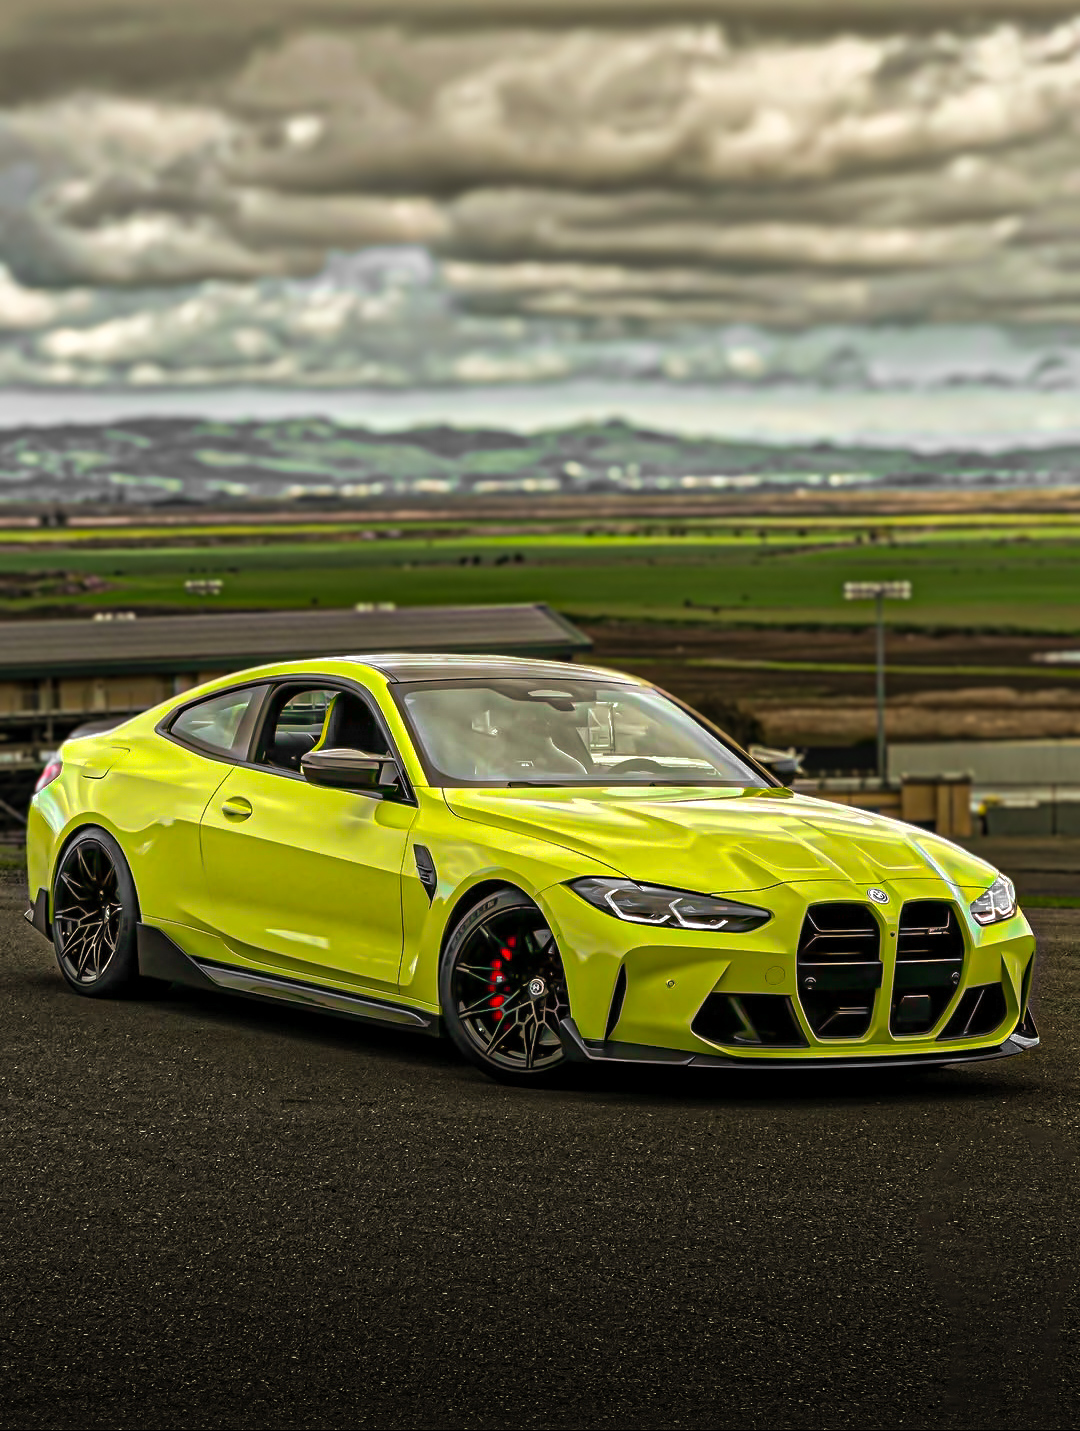
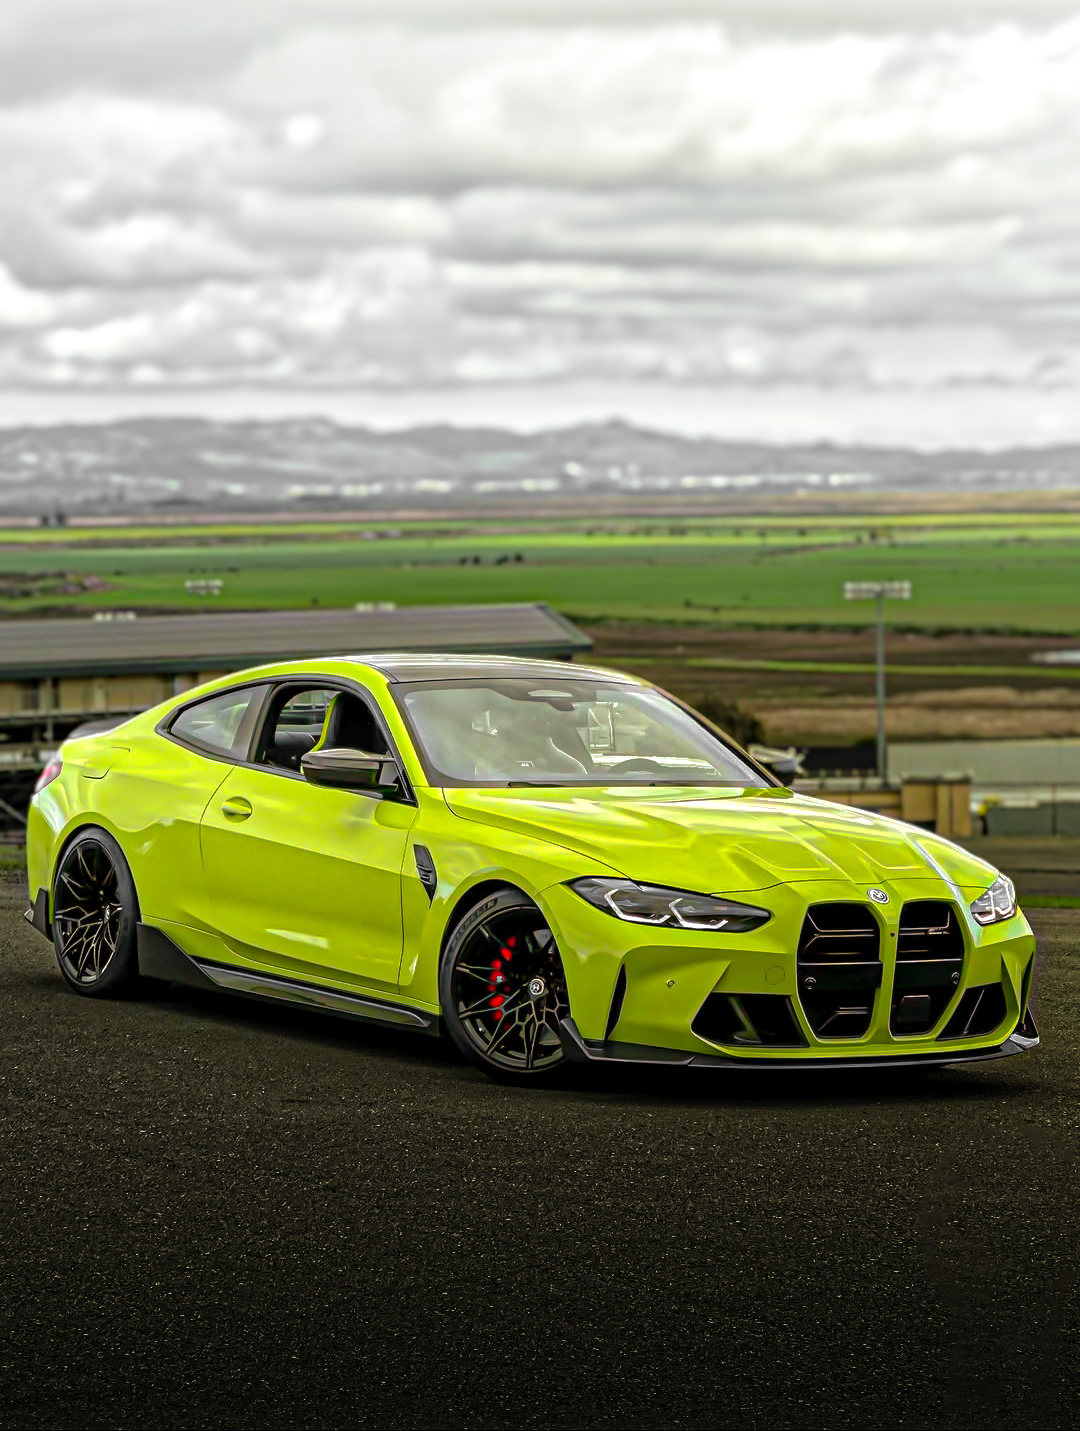
BMW

diff --git a/src/App.js b/src/App.js
@@ -1,7 +1,6 @@
-import { useState } from 'react';
+import React, { useState, useEffect } from 'react';
 import './App.css';
 import { useRepeatableIntersect } from './hooks/useRepeatableIntersect';
-
 const NAV = [
   { id: 'home', label: 'Home' },
   { id: 'experience', label: 'Experience' },
@@ -85,8 +84,8 @@ const PROJECTS = [
      { 
       id: 7, 
       title: 'Nature', 
-     before: 'if.jpg', 
-      after: 'ifcg.jpg' 
+     before: 'fiz.jpg', 
+      after: 'fizcg.jpg' 
      },
       { 
       id: 8, 
@@ -276,8 +275,13 @@ function ProjectsSection() {
     </section>
   );
 }
-function ColorGradeCard({ item, index, active }) {
+function ColorGradeCard({ item, index, active, forceShowAfter }) {
   const [showAfter, setShowAfter] = useState(false);
+
+  // Sync with the "Grade All" button
+  useEffect(() => {
+    setShowAfter(forceShowAfter);
+  }, [forceShowAfter]);
 
   return (
     <article 
@@ -289,7 +293,6 @@ function ColorGradeCard({ item, index, active }) {
         <img 
           src={showAfter ? item.after : item.before} 
           alt={item.title} 
-          // No height="200px" here!
         />
         <div className="button-container">
           <button className="pill pill--solid" style={{ fontSize: '0.8rem', padding: '6px 27px' }}>
@@ -300,30 +303,53 @@ function ColorGradeCard({ item, index, active }) {
         <div className="photo-overlay">
           <div className="overlay-content">
              <h3>{item.title}</h3>
-             <span className="status-tag">
-               {showAfter ? 'Graded' : 'Raw'}
-             </span>
+             <span className="status-tag">{showAfter ? 'Graded' : 'Raw'}</span>
           </div>
         </div>
       </div>
     </article>
   );
 }
+
+// --- MAIN SECTION ---
 function GradingSection() {
+  // Assuming useRepeatableIntersect is defined elsewhere in your project
   const [ref, active] = useRepeatableIntersect(0.15, '0px 0px -8% 0px', true);
+  const [globalShowAfter, setGlobalShowAfter] = useState(false);
+
+  const toggleAll = () => setGlobalShowAfter(!globalShowAfter);
 
   return (
     <section id="grading" className="section" ref={ref}>
       <div className={`section-inner reveal ${active ? 'reveal--in' : ''}`}>
         <p className="eyebrow">Side Skills</p>
         <h2 className="section-title">Color Grading</h2>
-        <p className="section-lead">Tap or click on the photos to toggle between RAW and GRADED shots. Wait for the graded photos to load on " AFTER MODE " ( View in Dark Mode )</p>
-       
+          <p className="section-lead">Tap or click on the photos to toggle between RAW and GRADED shots. Wait for the graded photos to load on " AFTER MODE " ( View in Dark Mode )</p>
+        
+        {/* TOP BUTTON */}
+        <div style={{ display: 'flex', justifyContent: 'left', marginBottom: '25px', marginTop: '-15px' }}>
+          <button className="pill pill--solid" onClick={toggleAll}>
+            {globalShowAfter ? 'RAW THEM ALL' : 'GRADE THEM ALL'}
+          </button>
+        </div>
         
         <div className="card-grid">
           {COLOR_GRADING.map((item, i) => (
-            <ColorGradeCard key={item.id} item={item} index={i} active={active} />
+            <ColorGradeCard 
+              key={item.id} 
+              item={item} 
+              index={i} 
+              active={active} 
+              forceShowAfter={globalShowAfter} 
+            />
           ))}
+        </div>
+
+        {/* BOTTOM BUTTON */}
+        <div style={{ display: 'flex', justifyContent: 'left', marginTop: '20px' , marginBottom: '-50px'}}>
+          <button className="pill pill--solid" onClick={toggleAll}>
+            {globalShowAfter ? 'RAW THEM ALL' : 'GRADE THEM ALL'}
+          </button>
         </div>
       </div>
     </section>